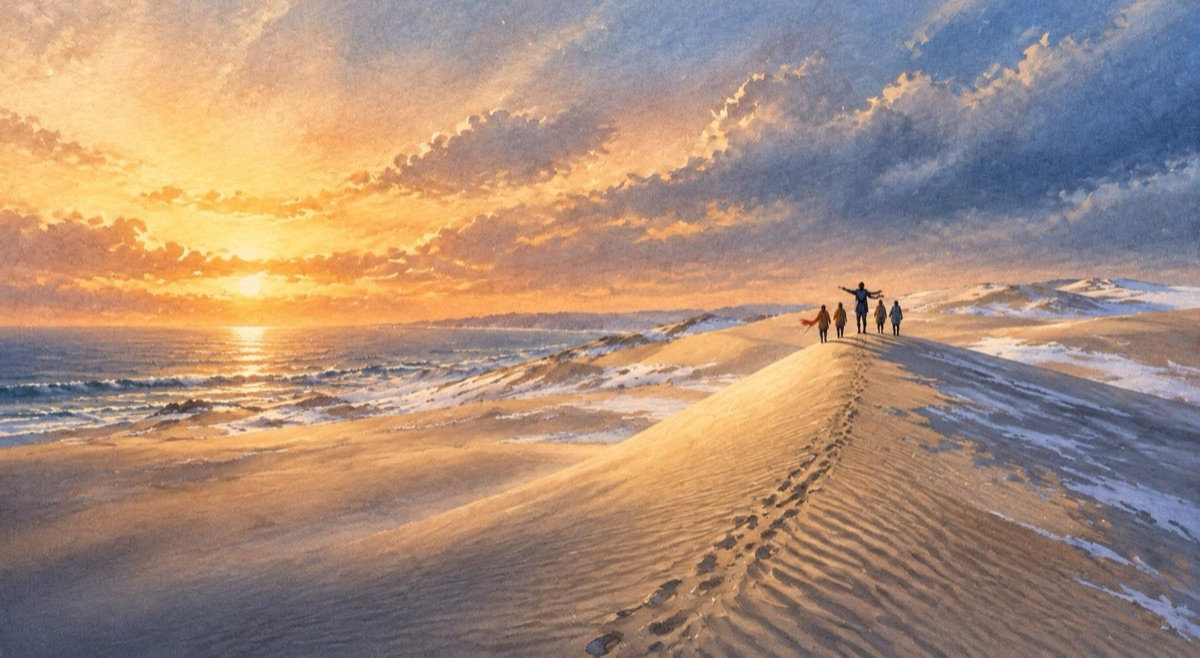
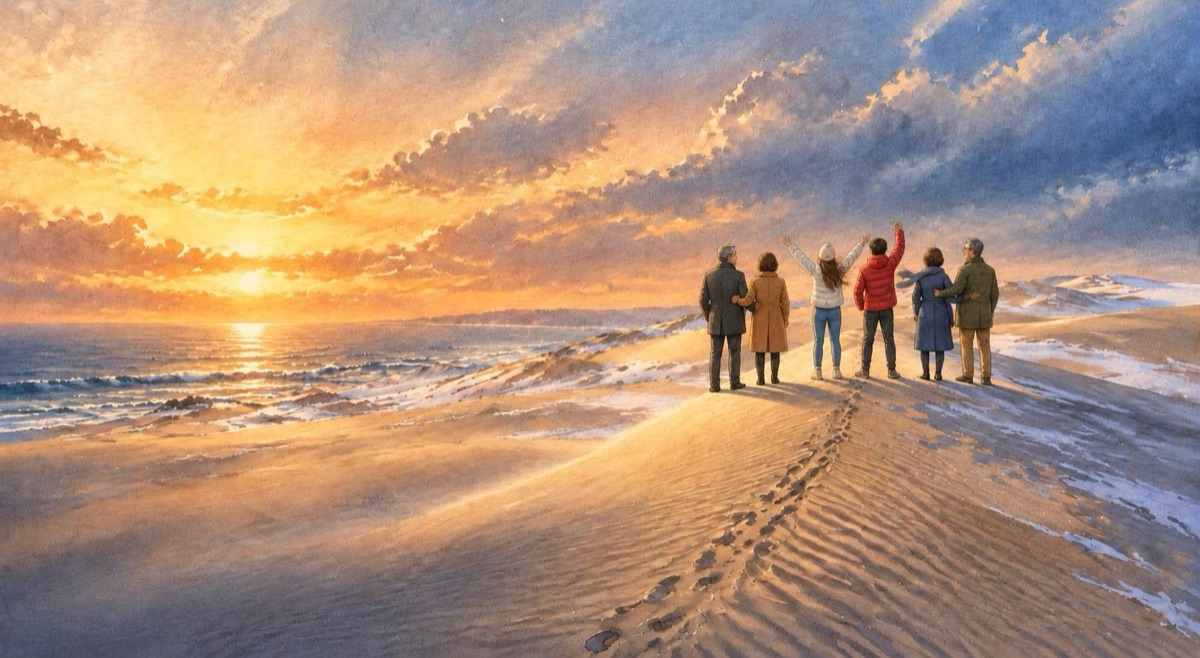
fix: Day 5 砂丘插圖改為兩家六口
原圖沙丘上只有五個人；改為兩對父母加女、男大學生各一，
並更新替代文字。

diff --git a/trip_discussion.html b/trip_discussion.html
@@ -1644,7 +1644,7 @@
       </section>
 
       <figure class="editorial-hero editorial-reveal editorial-delay-1">
-        <img src="assets/day-illustrations/day-05-tottori-sand-dunes.jpg" width="1200" height="658" loading="lazy" decoding="async" alt="雲隙金光灑落的鳥取砂丘，旅伴們登上沙丘稜線、張開雙臂迎風，身後一串腳印延伸到前景">
+        <img src="assets/day-illustrations/day-05-tottori-sand-dunes.jpg" width="1200" height="658" loading="lazy" decoding="async" alt="雲隙金光灑落的鳥取砂丘，兩家六口並肩站上沙丘稜線：女大學生張開雙臂、男大學生舉拳歡呼，兩對父母挽著手看海，身後一串腳印延伸到前景">
         <figcaption class="editorial-hero-caption"><p>A white line across the dune</p><h3>入口短走，看見冬日砂丘</h3></figcaption>
       </figure>
 
